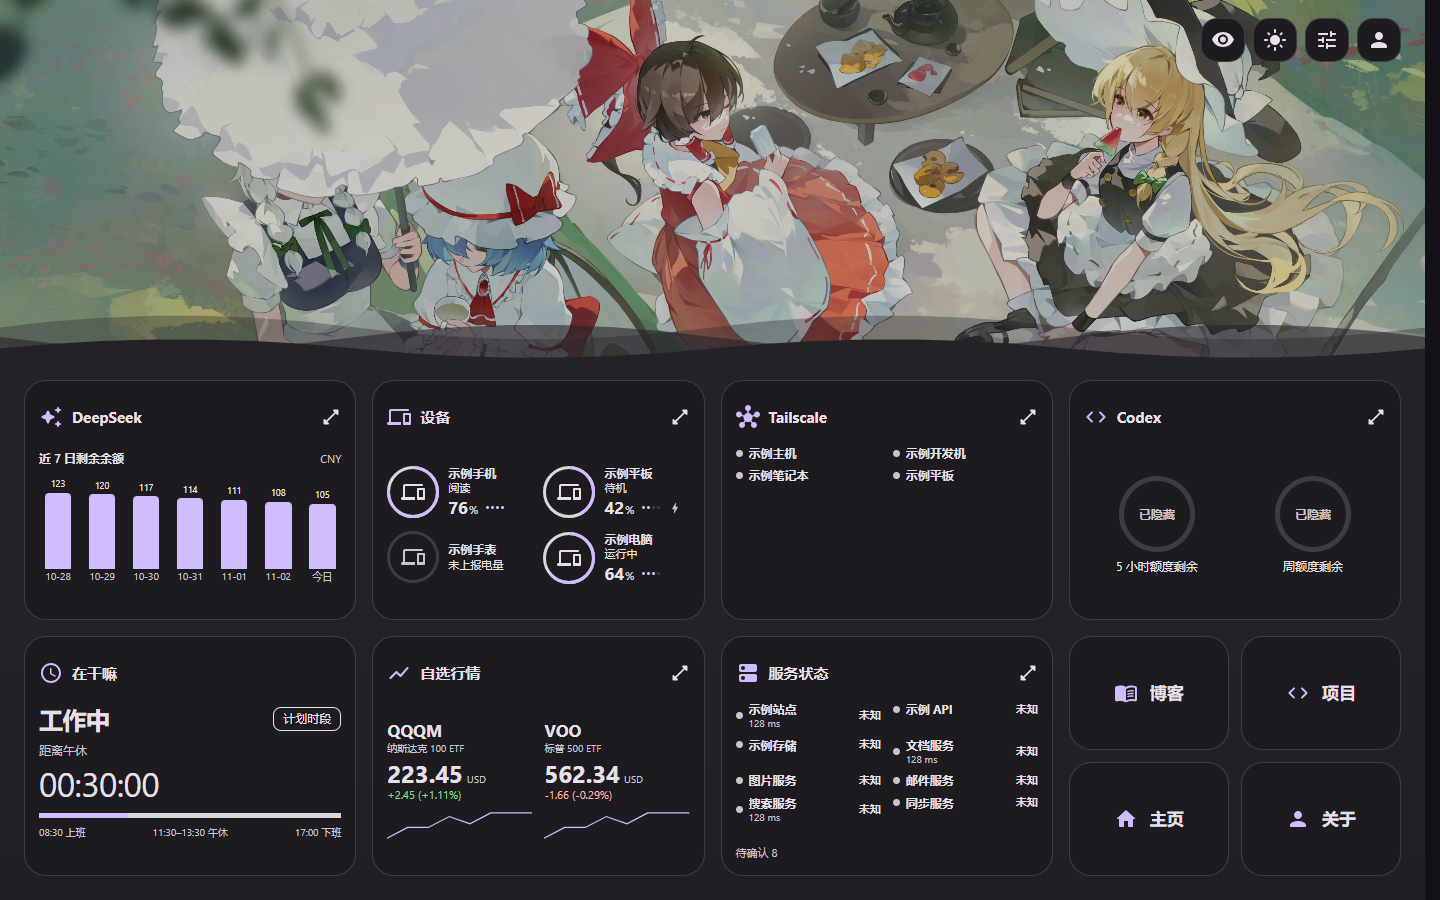
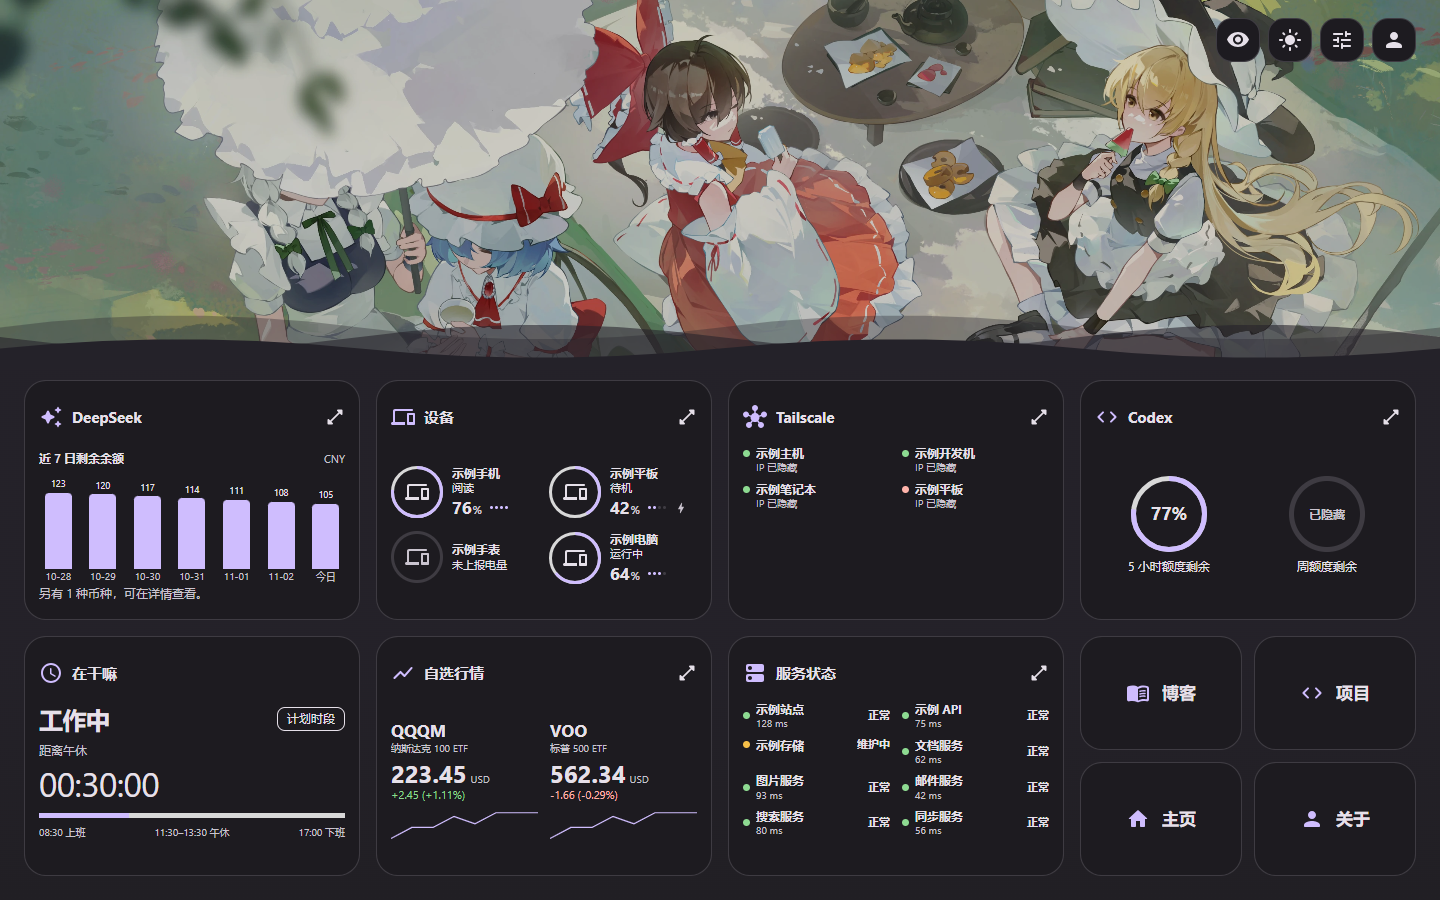
fix: align collection schedules with cron ticks and distinguish stale monitors

diff --git a/tests/integration/collector.test.ts b/tests/integration/collector.test.ts
@@ -202,7 +202,7 @@ async function reset(spec = [['fixture', 'sleepy', 'devices']]) {
         ...settings,
         id,
         baseUrl:
-          provider === 'sleepy'
+          provider === 'sleepy' || provider === 'uptimeflare'
             ? s.baseUrl
             : provider === 'deepseek'
               ? 'https://api.deepseek.com/'
@@ -347,6 +347,55 @@ test('phase 06 real workerd/D1 collector fences, schedules and shared reads', as
       assert.equal((await rows('collection_runs')).length, 1)
     },
   )
+  await check(
+    'successful service collections stay due on consecutive five-minute ticks',
+    async () => {
+      await reset([['uptimeflare', 'uptimeflare', 'services']])
+      await save((c) => {
+        c.integrations[0].refreshInterval = 300
+      })
+      const interval = 300_000
+      // The commit trigger also checks leases against D1's real clock.
+      const firstTick = Math.ceil(Date.now() / interval) * interval
+      const serviceState = () =>
+        db.prepare("SELECT * FROM collection_state WHERE source_id='uptimeflare'").first()
+      for (const tick of [firstTick, firstTick + interval]) {
+        const claim = await h1.acquire(tick, 'uptimeflare')
+        assert.ok(claim && claim !== 'null', `Expected a claim exactly at ${iso(tick)}`)
+        assert.equal(await h1.finish(claim, tick + 34_000), 'success')
+        const state = await serviceState()
+        assert.equal(state.status, 'ok')
+        assert.equal(state.last_scheduled_at, iso(tick))
+        assert.equal(state.last_success_at, iso(tick + 34_000))
+        assert.equal(state.next_run_at, iso(tick + interval))
+        assert.equal(await h2.acquire(tick + interval - 1, 'uptimeflare'), null)
+      }
+      const runs = await rows('collection_runs')
+      assert.deepEqual(
+        runs.map((run) => run.status),
+        ['success', 'success'],
+      )
+      const view = await db
+        .prepare("SELECT snapshot_json FROM integration_snapshot_views WHERE module_id='services'")
+        .first()
+      const snapshot = JSON.parse(view.snapshot_json)
+      assert.equal(snapshot.status, 'ok')
+      assert.equal(snapshot.data.monitors.find((m) => m.id === 'uptimeflare/web').state, 'up')
+    },
+  )
+  await check('invalid or future scheduling anchors fall back to the completion time', async () => {
+    const finishedAt = at + 1_000
+    for (const scheduledAt of ['invalid', iso(finishedAt + 1)]) {
+      await reset()
+      const raw = await h1.acquire(at, 'fixture')
+      assert.ok(raw && raw !== 'null')
+      const claim = JSON.parse(raw)
+      claim.scheduledAt = scheduledAt
+      assert.equal(await h1.finish(JSON.stringify(claim), finishedAt), 'success')
+      const [state] = await rows('collection_state')
+      assert.equal(state.next_run_at, iso(finishedAt + 300_000))
+    }
+  })
   await check(
     'expired lease takeover rejects the original owner and completion cannot replay',
     async () => {

diff --git a/tests/self-host/http.test.ts b/tests/self-host/http.test.ts
@@ -296,6 +296,54 @@ test(
       },
     )
     await t.test(
+      'service monitor rows distinguish expired observations from unknown states',
+      { skip: process.env.NOZOKI_TEST_BROWSER !== '1' },
+      async () => {
+        const { launch, settle } = await import('../browser/support.ts')
+        const { expect } = await import('playwright/test')
+        const { fixture, fixed } = await import('../fixtures/layout.ts')
+        const dashboard = await fixture({ only: ['services'] })
+        const servicesModule = dashboard.modules.find((m) => m.id === 'services')
+        assert.ok(servicesModule?.kind === 'data')
+        const services = servicesModule.snapshot
+        const data = services.data
+        assert.ok(data && typeof data === 'object' && 'monitors' in data)
+        assert.ok(Array.isArray(data.monitors) && data.monitors.length >= 2)
+        services.status = 'ok'
+        services.collectedAt = fixed.toISOString()
+        services.expiresAt = new Date(fixed.getTime() + 600_000).toISOString()
+        const [expired, unknown] = data.monitors
+        data.monitors = [
+          { ...expired, state: 'up', checkedAt: new Date(fixed.getTime() - 600_001).toISOString() },
+          { ...unknown, state: 'unknown', checkedAt: null },
+        ]
+
+        const monitorBrowser = await launch()
+        try {
+          const page = await monitorBrowser.newPage()
+          await page.clock.setFixedTime(fixed)
+          await page.route('**/api/dashboard', (route) => route.fulfill({ json: dashboard }))
+          await page.goto(origin)
+          await settle(page)
+          await page.evaluate(() => window.dispatchEvent(new Event('focus')))
+          const rows = page.locator('[data-module="services"] .monitor-row')
+          const staleRow = rows.filter({ has: page.locator('[data-state="stale"]') })
+          const unknownRow = rows.filter({ has: page.locator('[data-state="unknown"]') })
+          await expect(staleRow.locator('.monitor-state')).toHaveText('数据过期')
+          await expect(unknownRow.locator('.monitor-state')).toHaveText('未知')
+          const unknownColor = await unknownRow
+            .locator('.monitor-indicator')
+            .evaluate((dot) => getComputedStyle(dot).backgroundColor)
+          await expect(staleRow.locator('.monitor-indicator')).toHaveCSS(
+            'background-color',
+            unknownColor,
+          )
+        } finally {
+          await monitorBrowser.close()
+        }
+      },
+    )
+    await t.test(
       'real browser restores admin, saves a draft and logs out on Node SSR',
       { skip: process.env.NOZOKI_TEST_BROWSER !== '1' },
       async () => {

diff --git a/app/assets/styles/dashboard.css b/app/assets/styles/dashboard.css
@@ -4,7 +4,6 @@
 html {
   margin: 0;
   background: var(--color-body, #fdf8fd);
-  scrollbar-gutter: stable;
 }
 body {
   margin: 0;
@@ -1436,14 +1435,17 @@ p {
   background: var(--color-secondary-container);
 }
 .var-popup__content:has(> .module-detail-panel) {
-  width: 100%;
+  --detail-inline-gap: max(16px, env(safe-area-inset-left), env(safe-area-inset-right));
+  --detail-block-gap: max(24px, env(safe-area-inset-top), env(safe-area-inset-bottom));
+  --detail-max-width: 680px;
+  width: min(var(--detail-max-width), calc(100% - 2 * var(--detail-inline-gap)));
+  flex: none;
   overflow: visible;
-  --detail-motion: translateX(100%);
 }
 .var-popup__content.module-detail-enter-from,
 .var-popup__content.module-detail-leave-to {
-  transform: var(--detail-motion);
-  opacity: var(--detail-opacity, 1);
+  transform: translateY(10px) scale(0.98);
+  opacity: 0;
 }
 .var-popup__content.module-detail-enter-active,
 .var-popup__content.module-detail-leave-active {
@@ -1453,10 +1455,12 @@ p {
 }
 .module-detail-panel {
   width: 100%;
-  max-width: 100%;
-  height: 100dvh;
+  max-height: calc(100dvh - 2 * var(--detail-block-gap));
   display: flex;
   flex-direction: column;
+  overflow: clip;
+  border-radius: 28px;
+  box-shadow: 0 12px 36px rgb(0 0 0 / 0.24);
   background: var(--color-surface-container-low);
   color: var(--color-text);
 }
@@ -1491,7 +1495,8 @@ p {
 .module-detail-content {
   min-height: 0;
   overflow-y: auto;
-  padding: 20px 20px calc(24px + env(safe-area-inset-bottom));
+  overscroll-behavior-y: contain;
+  padding: 20px 20px 24px;
   display: grid;
   align-content: start;
   gap: 18px;
@@ -1549,17 +1554,19 @@ p {
     grid-template-columns: minmax(0, 1fr);
   }
 }
-@media (min-width: 768px) {
+@media (max-width: 767px) {
   .var-popup__content:has(> .module-detail-panel) {
-    width: 680px;
-    --detail-motion: translateY(10px) scale(0.98);
-    --detail-opacity: 0;
+    --detail-max-width: 480px;
+    --detail-block-gap: max(16px, env(safe-area-inset-top), env(safe-area-inset-bottom));
   }
-  .module-detail-panel {
-    height: auto;
-    max-height: calc(100dvh - 48px);
-    border-radius: 28px;
-    box-shadow: 0 12px 36px rgb(0 0 0 / 0.24);
+  .module-detail-heading,
+  .module-detail-content {
+    padding-inline: 16px;
+  }
+}
+@media (max-width: 429px) {
+  .var-popup__content:has(> .module-detail-panel) {
+    --detail-inline-gap: max(12px, env(safe-area-inset-left), env(safe-area-inset-right));
   }
 }
 @media (prefers-reduced-motion: reduce) {

diff --git a/tests/integration/collector-harness.ts b/tests/integration/collector-harness.ts
@@ -19,7 +19,7 @@ import { runAdapter } from '../../server/adapters/registry.ts'
 import { AdapterError } from '../../server/adapters/types.ts'
 import type { AdapterRead } from '../../server/adapters/types.ts'
 import { sleepyDevicesFixture } from '../fixtures/devices0511.ts'
-import { balance } from '../fixtures/adapters.ts'
+import { balance, flare } from '../fixtures/adapters.ts'
 import { snapshot, unavailableCapability } from '../../shared/domain/dashboard.ts'
 interface Env extends Record<string, unknown> {
   DB: Database
@@ -38,12 +38,16 @@ async function fixture(
     balanceValue.balance_infos[0]!.total_balance = '109.000000000000000001'
     balanceValue.balance_infos[0]!.topped_up_balance = '99.000000000000000001'
   }
+  const response =
+    plan.source.provider === 'uptimeflare'
+      ? { ...flare, updatedAt: now.getTime() / 1000 - 60 }
+      : plan.source.provider === 'deepseek'
+        ? balanceValue
+        : payload
   const result = await runAdapter({
     source: plan.source,
     now,
-    transport: responseTransport(plan.source, async () =>
-      Response.json(plan.source.provider === 'deepseek' ? balanceValue : payload),
-    ),
+    transport: responseTransport(plan.source, async () => Response.json(response)),
   })
   if (multi) {
     const codex = snapshot(

diff --git a/server/repositories/collection.ts b/server/repositories/collection.ts
@@ -237,6 +237,11 @@ export async function commitCollection(
         )
         .bind(c.plan.source.id, usageCutoff(new Date(now))),
     )
+  const finishedAt = Date.parse(now)
+  const scheduledAt = Date.parse(c.scheduledAt)
+  // Keep successful runs aligned with cron even when collection finishes after the tick.
+  const scheduleAnchor =
+    Number.isFinite(scheduledAt) && scheduledAt <= finishedAt ? scheduledAt : finishedAt
   // Queue reads happen under this lease. A rejected/failed atomic commit loses the popped batch:
   // upstream offers neither acknowledgement nor replay; never retry this batch independently.
   statements.push(
@@ -248,14 +253,11 @@ export async function commitCollection(
         now,
         c.plan.source.provider === 'deepseek'
           ? nextBalanceCollection(
-              Date.parse(now),
+              finishedAt,
               c.plan.source.refreshInterval,
               c.plan.timezone ?? 'UTC',
             )
-          : successfulSchedule(
-              Date.parse(c.plan.scheduledCodexQuota ? c.scheduledAt : now),
-              c.plan.source.refreshInterval,
-            ),
+          : successfulSchedule(scheduleAnchor, c.plan.source.refreshInterval),
         c.plan.source.id,
       ),
     db

diff --git a/tests/unit/home-summary.test.ts b/tests/unit/home-summary.test.ts
@@ -7,7 +7,7 @@ import {
   monitorHomeIds,
   serviceSummary,
   quoteUpdates,
-  monitorStale,
+  monitorDisplayState,
 } from '../../shared/domain/home-summary.ts'
 import { projectGuestDashboard } from '../../server/services/dashboard.ts'
 import { fieldPointer } from '../../shared/contracts/field-paths.ts'
@@ -72,8 +72,13 @@ test('quote times merge only when all meanings and delays match; stale checks ne
   const services = createFixture('complete').services
   const monitor = services.data!.monitors[0]!
   monitor.checkedAt = '2026-11-01T00:00:00.000Z'
-  assert.ok(monitorStale(monitor, services, Date.parse('2026-11-09T00:00:00.000Z')))
+  const now = Date.parse('2026-11-09T00:00:00.000Z')
+  assert.equal(monitorDisplayState(monitor, services, now), 'stale')
   assert.equal(monitor.state, 'up')
+  assert.equal(
+    monitorDisplayState({ ...monitor, state: 'unknown', checkedAt: null }, services, now),
+    'unknown',
+  )
 })
 test('home selection follows field ACL and cannot leak private IDs or telemetry through summary or details', async () => {
   const config = createDefaultConfig(),

diff --git a/app/components/dashboard/MonitorList.vue b/app/components/dashboard/MonitorList.vue
@@ -20,7 +20,7 @@ const states: Record<Monitor['state'] | 'stale', string> = {
   maintenance: '维护中',
   pending: '等待检测',
   unknown: '未知',
-  stale: '未知',
+  stale: '数据过期',
 }
 const rows = computed(() =>
   props.monitors.map((monitor) => ({

diff --git a/README.md b/README.md
@@ -1,38 +1,72 @@
 # Nozoki
 
-<img src="public/logo.png" width="96" align="right" alt="Nozoki Logo">
+<img align='right' src="public/logo.png" width='200px' alt="Nozoki Logo">
 
-[在线演示](https://nozoki.nekro.top/) · [使用文档](https://ayyyyano.github.io/Nozoki/)
+Nozoki 是一个基于 [Nuxt 4](https://nuxt.com/)，以自部署和便捷管理为核心特点的个人看板。
 
-Nozoki 是基于 Nuxt 4 的个人看板，支持模块配置、来源采集和访客隐私控制。可部署到 Cloudflare Workers 与 D1，也可在 Node.js 服务器上使用 SQLite。
+[**在线演示**](https://nozoki.nekro.top/) | [**用户文档**](https://ayyyyano.github.io/Nozoki/)  
 
-![使用示例数据的 Nozoki 看板](docs/public/preview.png)
+[![Node.js 24.21.0](https://img.shields.io/badge/node.js-24.21.0-brightgreen)](https://nodejs.org/)
+[![pnpm >= 9](https://img.shields.io/badge/pnpm-%3E%3D9-blue)](https://pnpm.io/)
+[![Nuxt](https://img.shields.io/badge/nuxt-5.15.3-green)](https://nuxt.com/)
+[![TypeScript](https://img.shields.io/badge/TypeScript-5.9.3-blue)](https://www.typescriptlang.org/)
+[![License: MIT](https://img.shields.io/badge/MIT-red.svg?logo=mit)](https://opensource.org/licenses/mit/)
+
+![Nozoki Preview](docs/public/preview.png)
 
 ## 看板功能
 
-- **账户**：DeepSeek 余额趋势、Codex 额度与用量观测。
-- **设备**：Sleepy 设备状态与电量、Tailscale 节点状态。
-- **日常**：「在干嘛」日程与倒计时、自选行情、常用链接。
-- **监控**：UptimeFlare 与 Uptime Kuma 服务状态。
+### 账户
+- [x] **DeepSeek 余额趋势:** 当前余额与近 7 日剩余余额柱状图，可为访客模糊展示。
+- [x] **Codex 额度与用量观测:** CLIProxyAPI 账户状态、定时额度查询与按日队列用量。
 
-管理后台可配置共享外观、数据源和访客可见性。界面使用 Vue 3、Varlet 和 Material 3。
+### 监控
+- [x] **Sleepy 设备状态:** 显示 Sleepy 设备在线状态、可确认的前台应用与电量。
+- [x] **Tailscale 节点状态:** 设备名称、控制面连接状态及可按登录身份隐藏的 Tailnet IP。
+- [x] **UptimeFlare / Uptime Kuma 服务状态:** 定时获取对应站点的监控状态和延迟。
+
+
+### 其它
+- [x] **日程与倒计时:** 每周日程、多时段、模板、日期例外、倒计时和进度展示。
+- [x] **自选行情:** 腾讯行情、日涨跌、成交量与近期走势图。
+- [x] **常用链接:** 可自由配置外部链接跳转。
+
+管理后台支持模块配置、来源采集和访客隐私控制。
 
 ## 快速开始
 
+- [GitHub Actions 自动部署](https://ayyyyano.github.io/Nozoki/deploy/github-actions.html) [推荐]
 - [Cloudflare Workers 初始化](https://ayyyyano.github.io/Nozoki/deploy/cloudflare.html)
-- [Workers Builds](https://ayyyyano.github.io/Nozoki/deploy/cloudflare-builds.html) · [GitHub Actions 自动部署](https://ayyyyano.github.io/Nozoki/deploy/github-actions.html)
+- [Workers Builds](https://ayyyyano.github.io/Nozoki/deploy/cloudflare-builds.html)
 - [Node.js 自部署](https://ayyyyano.github.io/Nozoki/deploy/node.html)
 - [Agent 快速部署](https://ayyyyano.github.io/Nozoki/deploy/agent.html)
 - [本地运行](https://ayyyyano.github.io/Nozoki/deploy/local.html)
 
-使用仓库锁定的 Node.js 和 pnpm，在本地启动：
+## 常见问题
 
-```sh
-pnpm install --frozen-lockfile
-pnpm db:init
-pnpm dev
-```
+详见 [故障排查](https://ayyyyano.github.io/Nozoki/operations/troubleshooting.html)。
 
-## 许可证与致谢
+## 参与贡献
 
-项目采用 [MIT](LICENSE) 许可证。第三方许可见 [public/licenses](public/licenses/)。加载动画来自 [maimai-transition](https://github.com/gfdfdxc/maimai-transition)。
+如果你发现项目存在未解决的 Bug，欢迎提交 PR，步骤如下。
+
+1. 创建 Fork 并克隆到本地 (`git clone https://github.com/ayyyyano/Nozoki.git`)
+2. 创建一个新的分支 (`git checkout -b test`)
+3. 提交更改 (`git commit -m '在此说明你的改动'`)
+4. 推送到分支 (`git push origin test`)
+5. 打开 PR
+
+若涉及功能性拓展，请不要直接提交 PR，先开 Issue 探讨接入可行性。
+
+## 许可证
+
+项目采用 [MIT](LICENSE) 许可证。第三方许可见 [public/licenses](public/licenses/)。
+
+## 致谢
+
+- 灵感来源于 [Soki 的 X 帖子](https://x.com/soki_ruby/status/2113465626887094773)。
+- 加载动画来自 [maimai-transition](https://github.com/gfdfdxc/maimai-transition)。
+- 使用 [Vue 3](https://vuejs.org/) 和 [Nuxt 4](https://nuxt.com/) 构建。
+- 主页与后台的 Material 组件来自 [Varlet](https://github.com/varletjs/varlet)。
+- Material 图标来自 [Iconify](https://iconify.design/)。
+- 特别感谢 [Soki](https://x.com/soki_ruby) 与 [Adrawta](https://x.com/Adrawta) 的灵感和技术支持。
